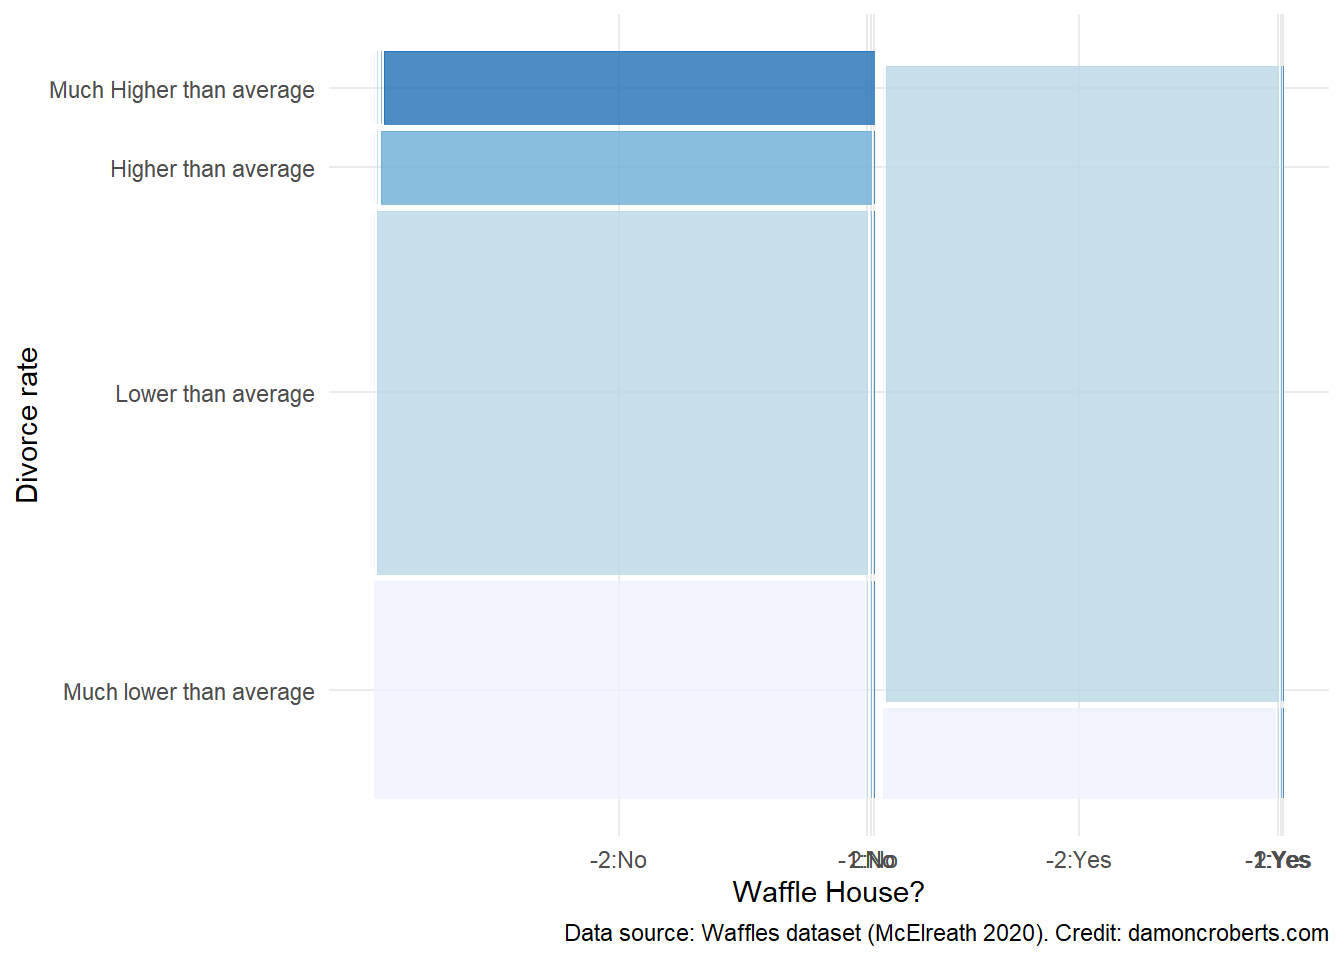
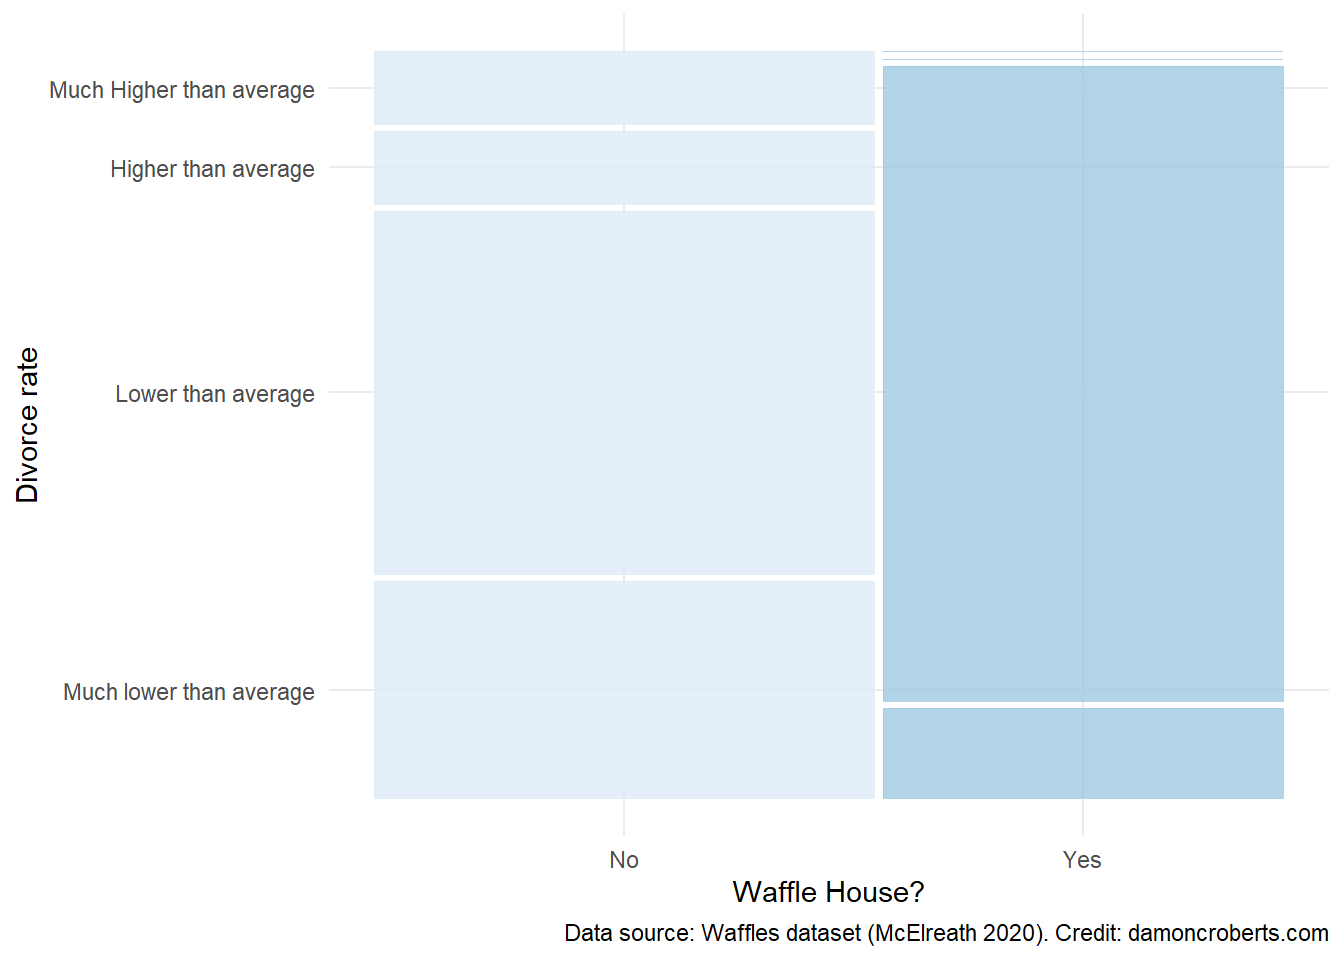
fix problems with mosaic plots

diff --git a/_book/docs/12_bivariate_expectations.html b/_book/docs/12_bivariate_expectations.html
@@ -885,7 +885,7 @@ C --&gt; B
 <span id="cb7-7"><a href="#cb7-7" aria-hidden="true" tabindex="-1"></a>                    Divorce_Cat_Labelled, </span>
 <span id="cb7-8"><a href="#cb7-8" aria-hidden="true" tabindex="-1"></a>                    WaffleHouses_Cat</span>
 <span id="cb7-9"><a href="#cb7-9" aria-hidden="true" tabindex="-1"></a>                ),</span>
-<span id="cb7-10"><a href="#cb7-10" aria-hidden="true" tabindex="-1"></a>                <span class="at">fill =</span> Divorce_Cat_Labelled <span class="co"># fill it with the Divorce_Cat variable</span></span>
+<span id="cb7-10"><a href="#cb7-10" aria-hidden="true" tabindex="-1"></a>                <span class="at">fill =</span> WaffleHouses_Cat <span class="co"># fill it with the Divorce_Cat variable</span></span>
 <span id="cb7-11"><a href="#cb7-11" aria-hidden="true" tabindex="-1"></a>            ),</span>
 <span id="cb7-12"><a href="#cb7-12" aria-hidden="true" tabindex="-1"></a>        ) <span class="sc">+</span> </span>
 <span id="cb7-13"><a href="#cb7-13" aria-hidden="true" tabindex="-1"></a>        <span class="fu">theme_minimal</span>() <span class="sc">+</span> <span class="co"># add this theme</span></span>
@@ -908,7 +908,7 @@ C --&gt; B
 <span id="cb7-30"><a href="#cb7-30" aria-hidden="true" tabindex="-1"></a>                    Divorce_Cat_Labelled, </span>
 <span id="cb7-31"><a href="#cb7-31" aria-hidden="true" tabindex="-1"></a>                    WaffleHouses_Cat</span>
 <span id="cb7-32"><a href="#cb7-32" aria-hidden="true" tabindex="-1"></a>                ),</span>
-<span id="cb7-33"><a href="#cb7-33" aria-hidden="true" tabindex="-1"></a>                <span class="at">fill =</span> Divorce_Cat_Labelled <span class="co"># fill it with the Divorce_Cat variable</span></span>
+<span id="cb7-33"><a href="#cb7-33" aria-hidden="true" tabindex="-1"></a>                <span class="at">fill =</span> WaffleHouses_Cat <span class="co"># fill it with the Divorce_Cat variable</span></span>
 <span id="cb7-34"><a href="#cb7-34" aria-hidden="true" tabindex="-1"></a>            ),</span>
 <span id="cb7-35"><a href="#cb7-35" aria-hidden="true" tabindex="-1"></a>        ) <span class="sc">+</span> </span>
 <span id="cb7-36"><a href="#cb7-36" aria-hidden="true" tabindex="-1"></a>        <span class="fu">theme_minimal</span>() <span class="sc">+</span> <span class="co"># add this theme</span></span>
@@ -931,7 +931,7 @@ C --&gt; B
 <span id="cb7-53"><a href="#cb7-53" aria-hidden="true" tabindex="-1"></a>                    Divorce_Cat_Labelled, </span>
 <span id="cb7-54"><a href="#cb7-54" aria-hidden="true" tabindex="-1"></a>                    WaffleHouses_Cat</span>
 <span id="cb7-55"><a href="#cb7-55" aria-hidden="true" tabindex="-1"></a>                ),</span>
-<span id="cb7-56"><a href="#cb7-56" aria-hidden="true" tabindex="-1"></a>                <span class="at">fill =</span> Divorce_Cat <span class="co"># fill it with the Divorce_Cat variable</span></span>
+<span id="cb7-56"><a href="#cb7-56" aria-hidden="true" tabindex="-1"></a>                <span class="at">fill =</span> WaffleHouses_Cat <span class="co"># fill it with the Divorce_Cat variable</span></span>
 <span id="cb7-57"><a href="#cb7-57" aria-hidden="true" tabindex="-1"></a>            ),</span>
 <span id="cb7-58"><a href="#cb7-58" aria-hidden="true" tabindex="-1"></a>        ) <span class="sc">+</span> </span>
 <span id="cb7-59"><a href="#cb7-59" aria-hidden="true" tabindex="-1"></a>        <span class="fu">theme_minimal</span>() <span class="sc">+</span> <span class="co"># add this theme</span></span>
@@ -954,7 +954,7 @@ C --&gt; B
 <span id="cb7-76"><a href="#cb7-76" aria-hidden="true" tabindex="-1"></a>                    Divorce_Cat_Labelled, </span>
 <span id="cb7-77"><a href="#cb7-77" aria-hidden="true" tabindex="-1"></a>                    WaffleHouses_Cat</span>
 <span id="cb7-78"><a href="#cb7-78" aria-hidden="true" tabindex="-1"></a>                ),</span>
-<span id="cb7-79"><a href="#cb7-79" aria-hidden="true" tabindex="-1"></a>                <span class="at">fill =</span> Divorce_Cat <span class="co"># fill it with the Divorce_Cat variable</span></span>
+<span id="cb7-79"><a href="#cb7-79" aria-hidden="true" tabindex="-1"></a>                <span class="at">fill =</span> WaffleHouses_Cat <span class="co"># fill it with the Divorce_Cat variable</span></span>
 <span id="cb7-80"><a href="#cb7-80" aria-hidden="true" tabindex="-1"></a>            ),</span>
 <span id="cb7-81"><a href="#cb7-81" aria-hidden="true" tabindex="-1"></a>        ) <span class="sc">+</span> </span>
 <span id="cb7-82"><a href="#cb7-82" aria-hidden="true" tabindex="-1"></a>        <span class="fu">theme_minimal</span>() <span class="sc">+</span> <span class="co"># add this theme</span></span>
